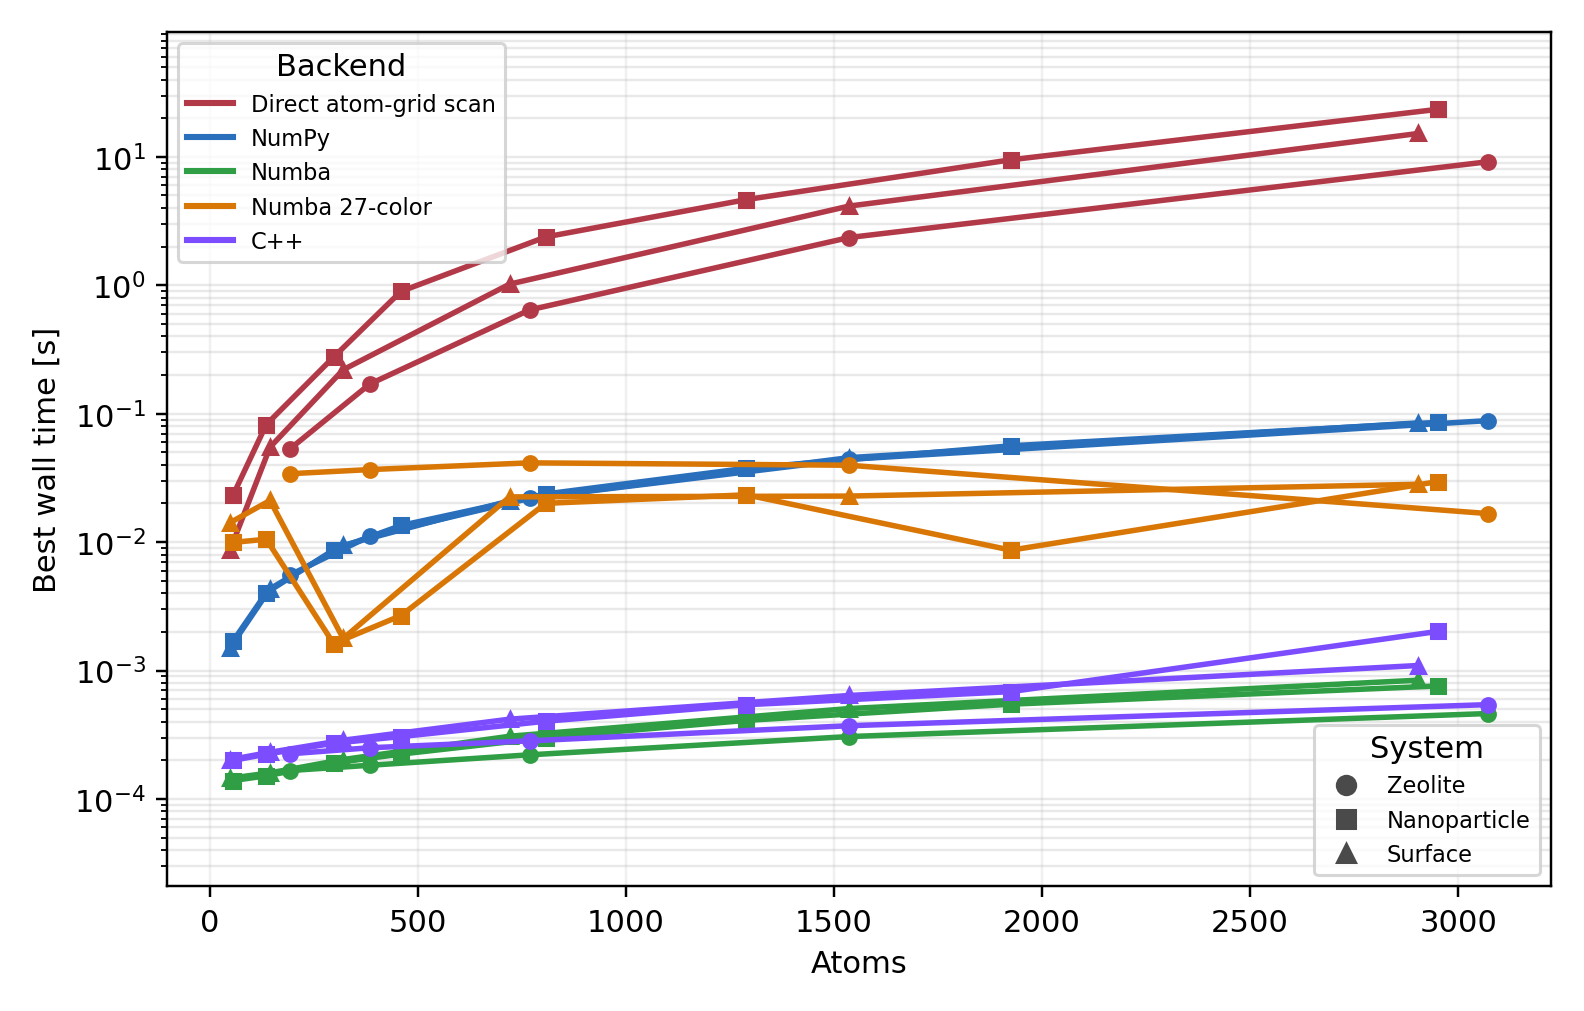
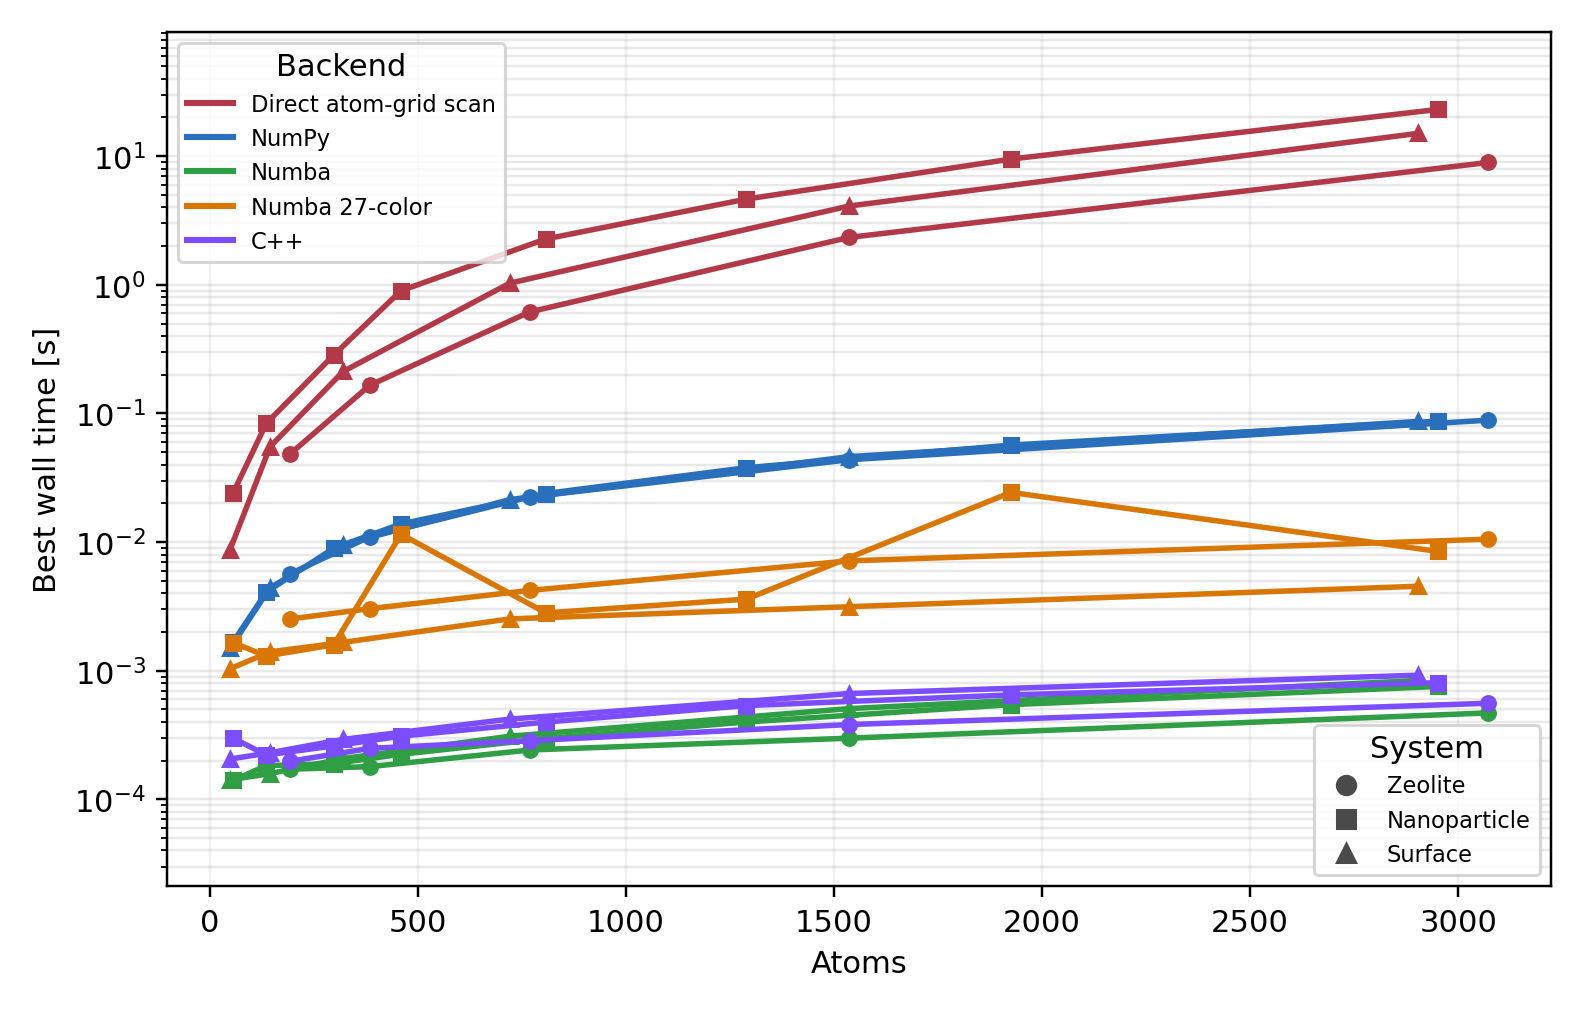
Use explicit Numba threads for backend benchmark

diff --git a/benchmarks/benchmark_backends.py b/benchmarks/benchmark_backends.py
@@ -195,6 +195,13 @@ def warm_numba():
         pass
 
 
+def set_numba_threads(count):
+    if count is None:
+        return
+    module = importlib.import_module("numba")
+    module.set_num_threads(int(count))
+
+
 def benchmark_one(workload, methods, resolution, repeats, include_direct):
     cell = workload["cell"]
     centers = workload["centers"]
@@ -438,6 +445,7 @@ def main():
     parser.add_argument("--csv", default=None, help="Optional CSV output path.")
     parser.add_argument("--no-direct", action="store_true", help="Skip the direct atom-grid scan baseline.")
     parser.add_argument("--no-numba", action="store_true", help="Skip the optional Numba backend.")
+    parser.add_argument("--numba-threads", type=int, default=None, help="Optional Numba thread count.")
     parser.add_argument(
         "--no-numba-cell-colored",
         action="store_true",
@@ -447,6 +455,7 @@ def main():
     args = parser.parse_args()
 
     methods = ["numpy"]
+    set_numba_threads(args.numba_threads)
     if not args.no_numba:
         methods.append("numba")
         warm_numba()

diff --git a/README.md b/README.md
@@ -177,7 +177,7 @@ pytest
 Run the mask-generation benchmark with:
 
 ```bash
-python benchmarks/benchmark_backends.py --workloads zeolite nanoparticle surface --plot mask_generation_scaling.png
+python benchmarks/benchmark_backends.py --workloads zeolite nanoparticle surface --numba-threads 24 --plot mask_generation_scaling.png
 python benchmarks/benchmark_dtypes.py --backend numpy
 python benchmarks/benchmark_numba_memory_order.py
 python benchmarks/benchmark_numba_cell_coloring.py --thread-scaling --thread-counts 1 2 4 8 16 24 28

diff --git a/docs/source/concepts.rst b/docs/source/concepts.rst
@@ -164,7 +164,7 @@ Run the CPU mask-generation benchmark with:
 .. code-block:: bash
 
    python benchmarks/benchmark_backends.py --workloads zeolite nanoparticle surface \
-       --plot mask_generation_scaling.png
+       --numba-threads 24 --plot mask_generation_scaling.png
    python benchmarks/benchmark_numba_memory_order.py
    python benchmarks/benchmark_numba_cell_coloring.py --thread-scaling \
        --thread-counts 1 2 4 8 16 24 28 \

diff --git a/docs/source/examples.rst b/docs/source/examples.rst
@@ -146,7 +146,7 @@ Run the mask-generation benchmark with:
 .. code-block:: bash
 
    python benchmarks/benchmark_backends.py --workloads zeolite nanoparticle surface \
-       --plot mask_generation_scaling.png
+       --numba-threads 24 --plot mask_generation_scaling.png
 
 The benchmark scales each workload from small systems to roughly 3000 atoms and
 compares a simple direct atom-grid distance scan with ``VoxelGrid`` NumPy,

diff --git a/docs/source/usage.rst b/docs/source/usage.rst
@@ -172,6 +172,6 @@ Run tests and benchmarks with:
 
    pytest
    python benchmarks/benchmark_backends.py --workloads zeolite nanoparticle surface \
-       --plot mask_generation_scaling.png
+       --numba-threads 24 --plot mask_generation_scaling.png
    python benchmarks/benchmark_dtypes.py --backend numpy
    python benchmarks/benchmark_structures.py
